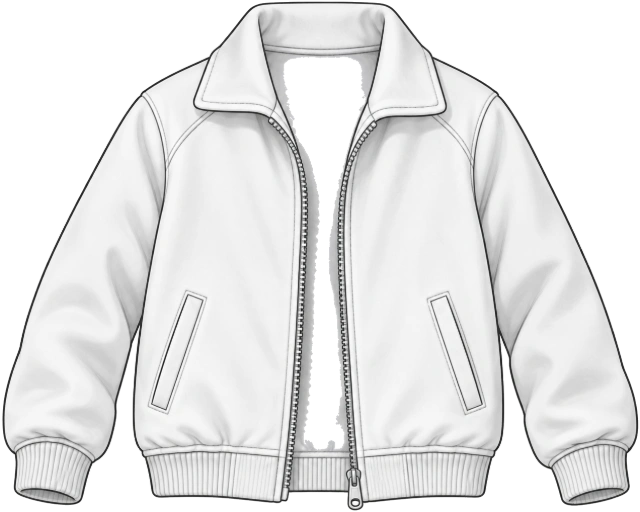
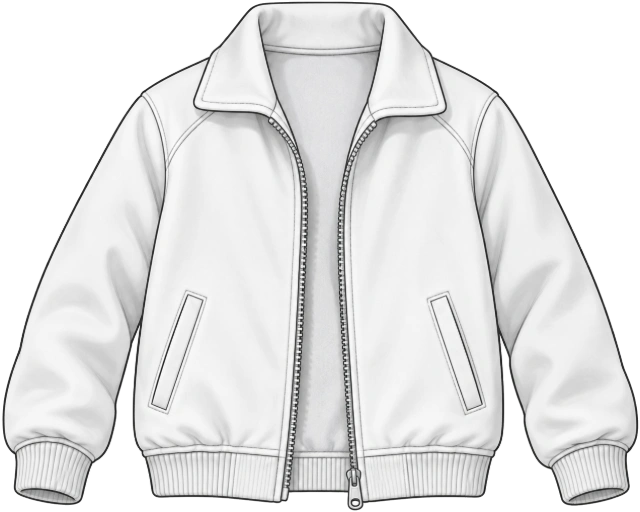
Year 2 label, trousers overflow, wheel hub/gap, jacket interior kept

Changed region(s): [[0.4375, 0.0938, 0.5938, 0.875]]

diff --git a/styles.css b/styles.css
@@ -133,7 +133,7 @@ body:not([data-phase="idle"]) .btn-spin { pointer-events: none; }
 
 
 /* ═══════════ 场景：左 转盘／答题（5）＋ 右 收藏（7），同高，一屏看完 ═══════════ */
-:root { --W: min(calc(100dvh - 215px), calc((min(100vw, 1320px) - 84px) * 5 / 12 - 56px), 640px); --cell-h: 64px; --key-h: 46px; --need: 592px; }
+:root { --W: min(calc(100dvh - 240px), calc((min(100vw, 1320px) - 84px) * 5 / 12 - 56px), 640px); --cell-h: 64px; --key-h: 46px; --need: 592px; }
 .stage { display: grid; grid-template-columns: minmax(0, 5fr) minmax(0, 7fr); gap: 28px; max-width: 1320px; width: 100%; margin: 0 auto; padding: 14px 28px 12px; align-items: stretch; align-content: center; min-height: 0; }
 
 .panel, .collection {
@@ -163,7 +163,7 @@ body[data-phase="idle"] .wheel-wrap { cursor: pointer; }
 .wl-top { pointer-events: none; }
 .hub { position: absolute; left: 50%; top: 50%; width: calc(var(--W) * .30); height: calc(var(--W) * .30); transform: translate(-50%, -50%); }
 .hub-spin {
-  position: absolute; inset: 7%; border: 0; border-radius: 50%; cursor: pointer; color: #fff;
+  position: absolute; inset: 7%; top: calc(7% - 4px); border: 0; border-radius: 50%; cursor: pointer; color: #fff;
   font: 700 calc(var(--W) * .056)/1 var(--font); letter-spacing: 1px; text-shadow: 0 2px 0 rgba(0,0,0,.28);
   background: radial-gradient(circle at 35% 28%, var(--coral-300), var(--coral-500) 55%, var(--coral-600));
   box-shadow: inset 0 3px 0 rgba(255,255,255,.5), inset 0 -5px 0 rgba(0,0,0,.14), 0 6px 0 var(--coral-800), 0 12px 14px rgba(36,22,9,.35);
@@ -178,7 +178,7 @@ body:not([data-phase="idle"]) .hub-spin { pointer-events: none; filter: saturate
 @keyframes thump { 0% { transform: translateX(-50%) rotate(0) scale(1); } 20% { transform: translateX(-50%) rotate(-9deg) scale(1.08); } 45% { transform: translateX(-50%) rotate(5deg); } 100% { transform: translateX(-50%) rotate(0); } }
 .wheel-wrap[data-spinning] .pointer { animation: tick .11s linear infinite; }
 @keyframes tick { 50% { transform: translateX(-50%) rotate(-5deg); } }
-.space-tip { font-size: 15px; color: var(--ink-soft); text-align: center; }
+.space-tip { margin-top: calc(var(--W) * .06); font-size: 15px; color: var(--ink-soft); text-align: center; }
 kbd { font: 700 13px var(--font); background: var(--paper); color: var(--ink); border-radius: 6px; padding: 2px 8px; box-shadow: 0 2px 0 var(--wood-300), inset 0 1px 0 #fff, 0 0 0 1px var(--wood-300); }
 
 /* ── 答题 ── */
@@ -253,8 +253,8 @@ kbd { font: 700 13px var(--font); background: var(--paper); color: var(--ink); b
 /* ── 一件拼对 / 一套凑满 ── */
 .done-title { font-size: 44px; font-weight: 700; color: var(--teal-700); text-shadow: 0 3px 0 rgba(17,118,111,.18); animation: titlepop .6s cubic-bezier(.2, 1.5, .4, 1) both; }
 @keyframes titlepop { from { transform: scale(.4); opacity: 0; } to { transform: scale(1); opacity: 1; } }
-.done-pic { --tag: #fff; width: 200px; height: 200px; border-radius: 30px; display: grid; place-items: center; background: radial-gradient(circle at 30% 25%, color-mix(in srgb, var(--tag) 55%, #fff), var(--tag) 70%); box-shadow: inset 0 3px 0 rgba(255,255,255,.7), 0 0 0 6px #FFFDF6, 0 0 0 9px var(--wood-300), 0 10px 14px rgba(36,22,9,.28); }
-.done-pic img { max-width: 84%; max-height: 84%; filter: drop-shadow(1px 3px 3px rgba(36,22,9,.3)); animation: titlepop .55s .1s cubic-bezier(.2, 1.5, .4, 1) both; }
+.done-pic { position: relative; --tag: #fff; width: 200px; height: 200px; border-radius: 30px; display: grid; place-items: center; background: radial-gradient(circle at 30% 25%, color-mix(in srgb, var(--tag) 55%, #fff), var(--tag) 70%); box-shadow: inset 0 3px 0 rgba(255,255,255,.7), 0 0 0 6px #FFFDF6, 0 0 0 9px var(--wood-300), 0 10px 14px rgba(36,22,9,.28); }
+.done-pic img { position: absolute; inset: 8%; width: 84%; height: 84%; object-fit: contain; filter: drop-shadow(1px 3px 3px rgba(36,22,9,.3)); animation: titlepop .55s .1s cubic-bezier(.2, 1.5, .4, 1) both; }
 .done-name { font-size: 30px; font-weight: 700; color: var(--ink); text-align: center; }
 .view-reward { gap: 8px; }
 .view-reward .done-title { font-size: 38px; }

diff --git a/index.html b/index.html
@@ -4,7 +4,7 @@
   <meta charset="utf-8">
   <meta name="viewport" content="width=device-width, initial-scale=1, viewport-fit=cover">
   <title>The Dressing Game · Get Dressed!</title>
-  <meta name="description" content="Tahun 2 English, Get Dressed!: spin the wheel, then spell the colour and the clothes.">
+  <meta name="description" content="Year 2 English, Get Dressed!: spin the wheel, then spell the colour and the clothes.">
   <link rel="preload" href="fonts/andika-700.woff2" as="font" type="font/woff2" crossorigin>
   <link rel="stylesheet" href="styles.css">
 <script src="https://kongsi-idea.vercel.app/data/track-use.js" data-slug="tahun2-bi-dressing" defer></script>
@@ -114,7 +114,7 @@
     </section>
   </main>
 
-  <footer class="foot">Tahun 2 English · Get Dressed!</footer>
+  <footer class="foot">Year 2 English · Get Dressed!</footer>
 </div>
 
 <!-- 全部收集完成 -->

diff --git a/app.js b/app.js
@@ -1,4 +1,4 @@
-/* The Dressing Game · Tahun 2 English · Get Dressed!
+/* The Dressing Game · Year 2 English · Get Dressed!
    纯静态：转盘（3 秒）→ 拼颜色 → 拼衣服 → 卡比巴拉穿上。 */
 (() => {
 'use strict';

diff --git a/scripts/prep-assets.py b/scripts/prep-assets.py
@@ -162,7 +162,7 @@ def main():
         br = p.chromium.launch(); pg = br.new_page()
         pg.goto(f'http://127.0.0.1:{port}/fonts/')
         for name, side in TARGET.items():
-            r = pg.evaluate(JS, {'name': name, 'maxSide': side, 'hollowJacket': name == 'jacket', 'splitSocks': name == 'socks', **dict(zip(('T', 'passes', 'fringeMin'), PARAMS.get(name, DEFAULT_PARAMS)))})
+            r = pg.evaluate(JS, {'name': name, 'maxSide': side, 'hollowJacket': False, 'splitSocks': name == 'socks', **dict(zip(('T', 'passes', 'fringeMin'), PARAMS.get(name, DEFAULT_PARAMS)))})
             for k, v in r.items():
                 if k.startswith('_'):
                     print(f'  {name}: {k} = {v}'); continue
